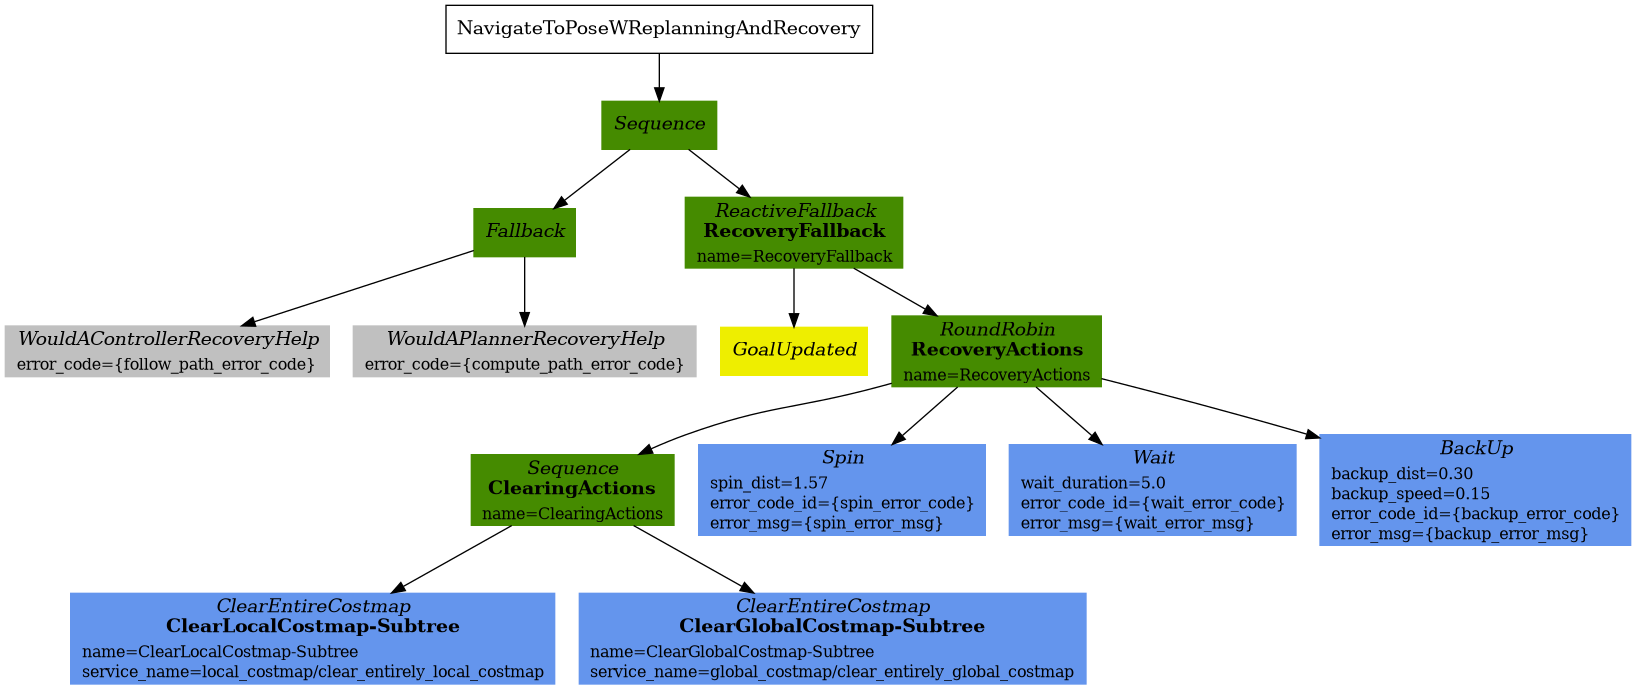
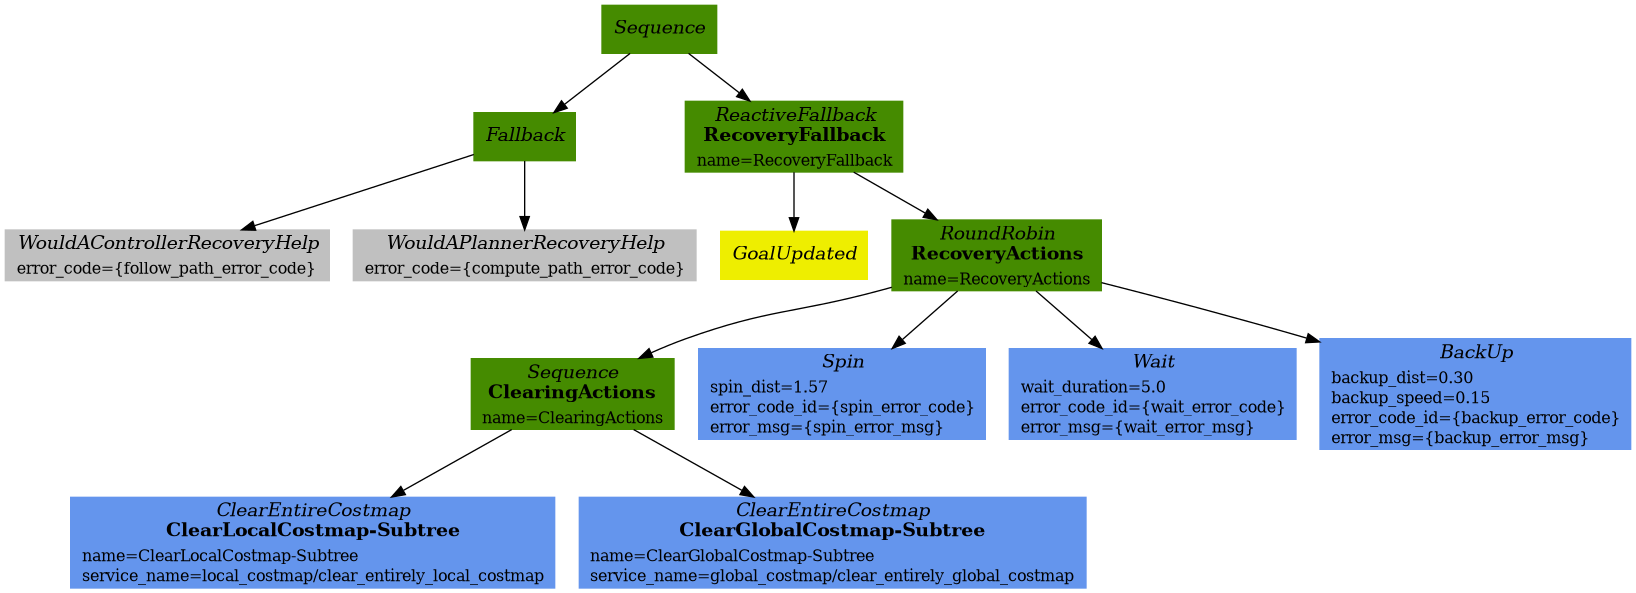
fix: update bt configuration and images

Changed region(s): [[0.0, 0.1214, 0.9976, 1.0], [0.2806, 0.0, 0.53, 0.0911], [0.2494, 0.2732, 0.2806, 0.3035]]

diff --git a/behavior_trees/overview/detailed_behavior_tree_walkthrough.rst b/behavior_trees/overview/detailed_behavior_tree_walkthrough.rst
@@ -145,33 +145,29 @@ The XML of this subtree is as follows:
 
 .. code-block:: xml
 
-    <root BTCPP_format="4" main_tree_to_execute="NavigateToPoseWReplanningAndRecovery">
-        <BehaviorTree ID="NavigateToPoseWReplanningAndRecovery">
-            <PipelineSequence name="NavigateWithReplanning">
-                <ProgressCheckerSelector selected_progress_checker="{selected_progress_checker}" default_progress_checker="progress_checker" topic_name="progress_checker_selector"/>
-                <GoalCheckerSelector selected_goal_checker="{selected_goal_checker}" default_goal_checker="general_goal_checker" topic_name="goal_checker_selector"/>
-                <PathHandlerSelector selected_path_handler="{selected_path_handler}" default_path_handler="path_handler" topic_name="path_handler_selector"/>
-                <ControllerSelector selected_controller="{selected_controller}" default_controller="follow_path" topic_name="controller_selector"/>
-                <PlannerSelector selected_planner="{selected_planner}" default_planner="grid_based" topic_name="planner_selector"/>
-                <RateController hz="1.0">
-                    <RecoveryNode number_of_retries="1" name="ComputePathToPose">
-                        <ComputePathToPose goal="{goal}" path="{path}" planner_id="{selected_planner}" error_code_id="{compute_path_error_code}" error_msg="{compute_path_error_msg}"/>
-                        <Sequence>
-                            <WouldAPlannerRecoveryHelp error_code="{compute_path_error_code}"/>
-                            <ClearEntireCostmap name="ClearGlobalCostmap-Context" service_name="global_costmap/clear_entirely_global_costmap"/>
-                        </Sequence>
-                    </RecoveryNode>
-                </RateController>
-                <RecoveryNode number_of_retries="1" name="FollowPath">
-                    <FollowPath path="{path}" controller_id="{selected_controller}" error_code_id="{follow_path_error_code}" error_msg="{follow_path_error_msg}"/>
-                    <Sequence>
-                        <WouldAControllerRecoveryHelp error_code="{follow_path_error_code}"/>
-                        <ClearEntireCostmap name="ClearLocalCostmap-Context" service_name="local_costmap/clear_entirely_local_costmap"/>
-                    </Sequence>
-                </RecoveryNode>
-            </PipelineSequence>
-        </BehaviorTree>
-    </root>
+    <PipelineSequence name="NavigateWithReplanning">
+        <ProgressCheckerSelector selected_progress_checker="{selected_progress_checker}" default_progress_checker="progress_checker" topic_name="progress_checker_selector"/>
+        <GoalCheckerSelector selected_goal_checker="{selected_goal_checker}" default_goal_checker="general_goal_checker" topic_name="goal_checker_selector"/>
+        <PathHandlerSelector selected_path_handler="{selected_path_handler}" default_path_handler="path_handler" topic_name="path_handler_selector"/>
+        <ControllerSelector selected_controller="{selected_controller}" default_controller="follow_path" topic_name="controller_selector"/>
+        <PlannerSelector selected_planner="{selected_planner}" default_planner="grid_based" topic_name="planner_selector"/>
+        <RateController hz="1.0">
+            <RecoveryNode number_of_retries="1" name="ComputePathToPose">
+                <ComputePathToPose goal="{goal}" path="{path}" planner_id="{selected_planner}" error_code_id="{compute_path_error_code}" error_msg="{compute_path_error_msg}"/>
+                <Sequence>
+                    <WouldAPlannerRecoveryHelp error_code="{compute_path_error_code}"/>
+                    <ClearEntireCostmap name="ClearGlobalCostmap-Context" service_name="global_costmap/clear_entirely_global_costmap"/>
+                </Sequence>
+            </RecoveryNode>
+        </RateController>
+        <RecoveryNode number_of_retries="1" name="FollowPath">
+            <FollowPath path="{path}" controller_id="{selected_controller}" error_code_id="{follow_path_error_code}" error_msg="{follow_path_error_msg}"/>
+            <Sequence>
+                <WouldAControllerRecoveryHelp error_code="{follow_path_error_code}"/>
+                <ClearEntireCostmap name="ClearLocalCostmap-Context" service_name="local_costmap/clear_entirely_local_costmap"/>
+            </Sequence>
+        </RecoveryNode>
+    </PipelineSequence>
 
 This subtree has two primary actions ``ComputePathToPose`` and ``FollowPath``.
 If either of these two actions fail, they will attempt to clear the failure contextually.
@@ -241,28 +237,24 @@ And the XML snippet:
 
 .. code-block:: xml
 
-    <root BTCPP_format="4" main_tree_to_execute="NavigateToPoseWReplanningAndRecovery">
-        <BehaviorTree ID="NavigateToPoseWReplanningAndRecovery">
-            <Sequence>
-                <Fallback>
-                    <WouldAControllerRecoveryHelp error_code="{follow_path_error_code}"/>
-                    <WouldAPlannerRecoveryHelp error_code="{compute_path_error_code}"/>
-                </Fallback>
-                <ReactiveFallback name="RecoveryFallback">
-                    <GoalUpdated/>
-                    <RoundRobin name="RecoveryActions">
-                        <Sequence name="ClearingActions">
-                            <ClearEntireCostmap name="ClearLocalCostmap-Subtree" service_name="local_costmap/clear_entirely_local_costmap"/>
-                            <ClearEntireCostmap name="ClearGlobalCostmap-Subtree" service_name="global_costmap/clear_entirely_global_costmap"/>
-                        </Sequence>
-                        <Spin spin_dist="1.57" error_code_id="{spin_error_code}" error_msg="{spin_error_msg}"/>
-                        <Wait wait_duration="5.0" error_code_id="{wait_error_code}" error_msg="{wait_error_msg}"/>
-                        <BackUp backup_dist="0.30" backup_speed="0.15" error_code_id="{backup_error_code}" error_msg="{backup_error_msg}"/>
-                    </RoundRobin>
-                </ReactiveFallback>
-            </Sequence>
-        </BehaviorTree>
-    </root>
+    <Sequence>
+        <Fallback>
+            <WouldAControllerRecoveryHelp error_code="{follow_path_error_code}"/>
+            <WouldAPlannerRecoveryHelp error_code="{compute_path_error_code}"/>
+        </Fallback>
+        <ReactiveFallback name="RecoveryFallback">
+            <GoalUpdated/>
+            <RoundRobin name="RecoveryActions">
+                <Sequence name="ClearingActions">
+                    <ClearEntireCostmap name="ClearLocalCostmap-Subtree" service_name="local_costmap/clear_entirely_local_costmap"/>
+                    <ClearEntireCostmap name="ClearGlobalCostmap-Subtree" service_name="global_costmap/clear_entirely_global_costmap"/>
+                </Sequence>
+                <Spin spin_dist="1.57" error_code_id="{spin_error_code}" error_msg="{spin_error_msg}"/>
+                <Wait wait_duration="5.0" error_code_id="{wait_error_code}" error_msg="{wait_error_msg}"/>
+                <BackUp backup_dist="0.30" backup_speed="0.15" error_code_id="{backup_error_code}" error_msg="{backup_error_msg}"/>
+            </RoundRobin>
+        </ReactiveFallback>
+    </Sequence>
 
 At the top level, a ``Sequence`` ensures the following steps are executed in order:
 
